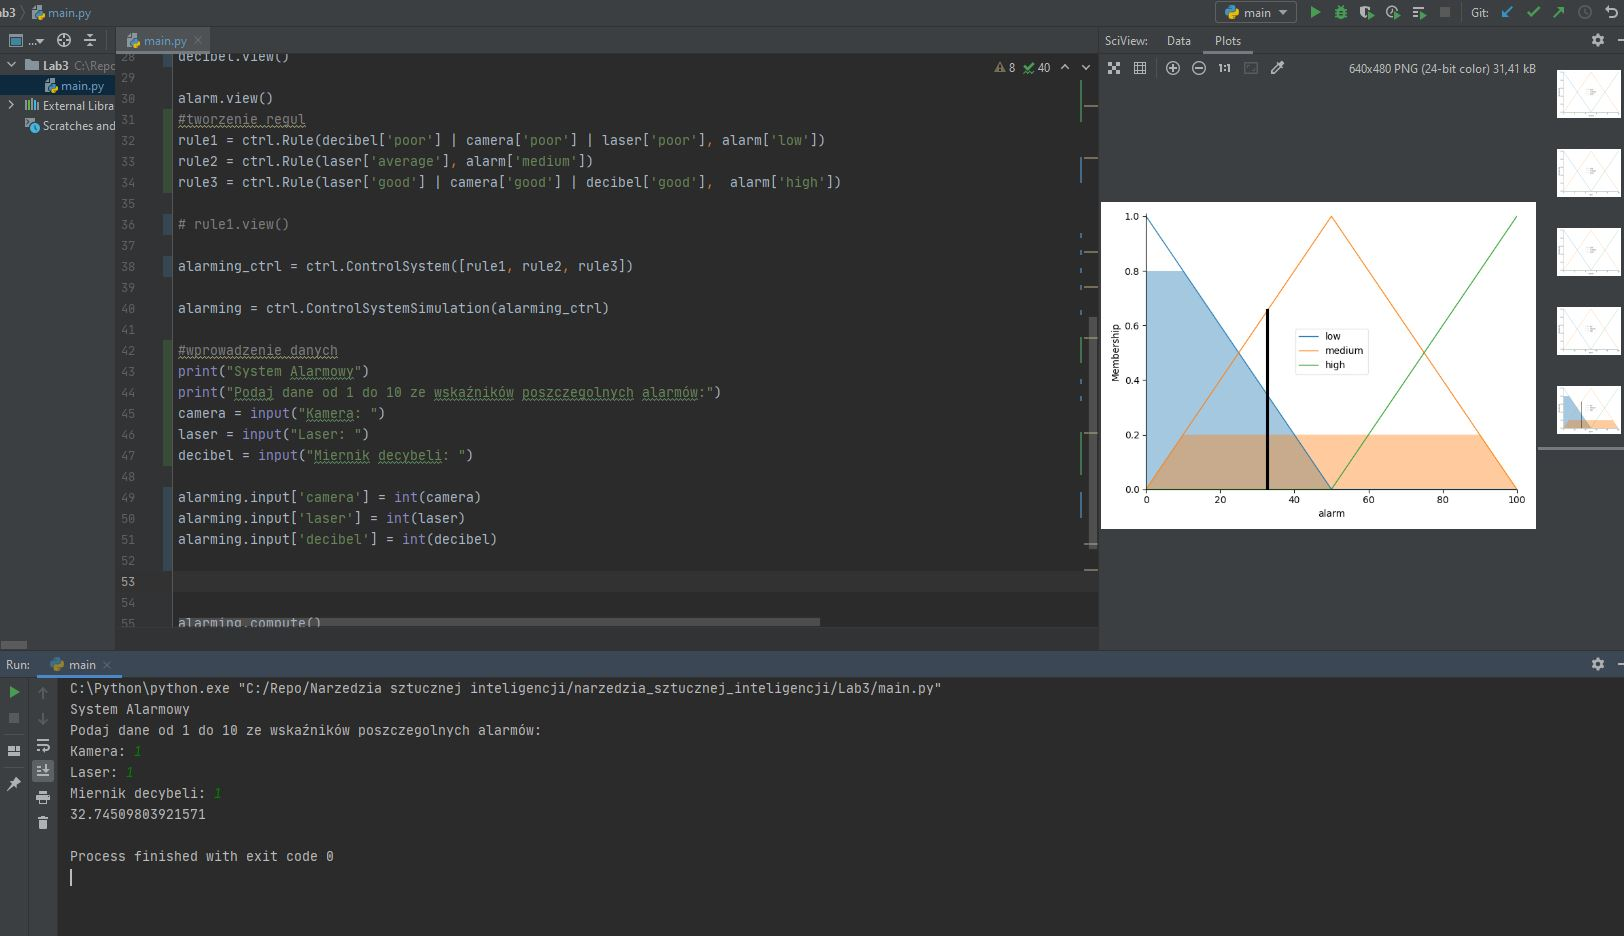
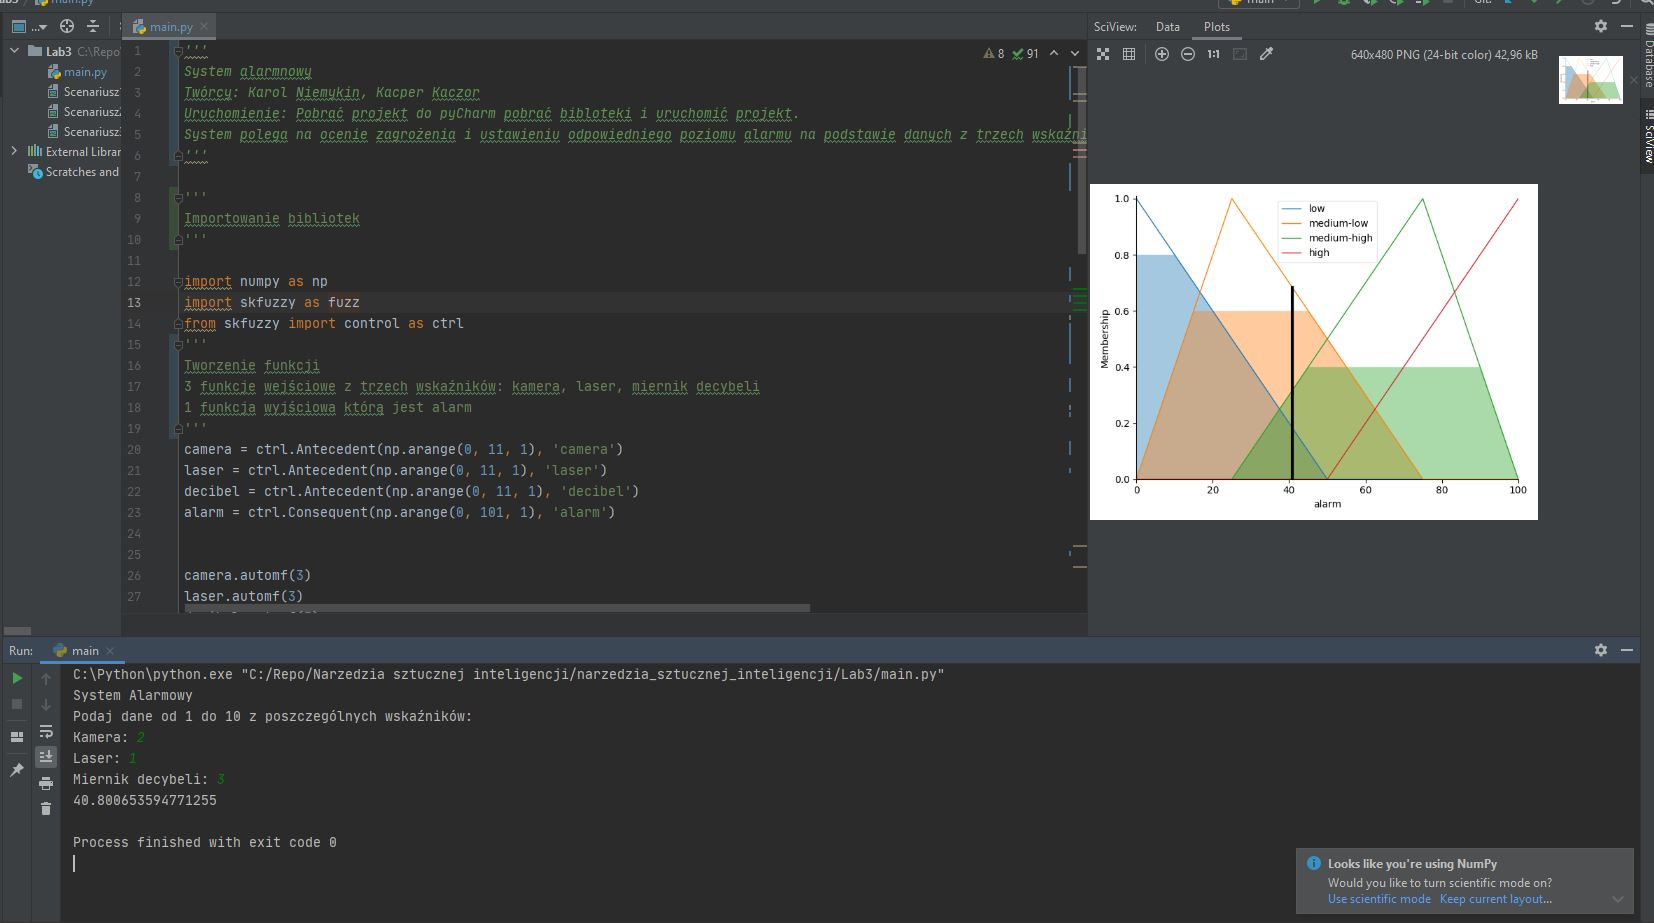
Wersja v2

diff --git a/Lab3/main.py b/Lab3/main.py
@@ -1,13 +1,22 @@
-# System alarmnowy
-# Twórcy: Karol Niemykin, Kacper Kaczor
-# Uruchomienie: Pobrać projekt do pyCharm pobrać bibloteki i uruchomić projekt.
-# System polega na ocenie zagrożenia i ustawieniu odpowiedniego poziomu alarmu na podstawie danych z trzech wskaźnikówk: Kamery, Miernika decybeli i lasera.
+'''
+System alarmnowy
+Twórcy: Karol Niemykin, Kacper Kaczor
+Uruchomienie: Pobrać projekt do pyCharm pobrać bibloteki i uruchomić projekt.
+System polega na ocenie zagrożenia i ustawieniu odpowiedniego poziomu alarmu na podstawie danych z trzech wskaźnikówk: Kamery, Miernika decybeli i lasera.
+'''
 
+'''
+Importowanie bibliotek
+'''
 
 import numpy as np
 import skfuzzy as fuzz
 from skfuzzy import control as ctrl
-#Functions
+'''
+Tworzenie funkcji
+3 funkcje wejściowe z trzech wskaźników: kamera, laser, miernik decybeli
+1 funkcja wyjściowa którą jest alarm
+'''
 camera = ctrl.Antecedent(np.arange(0, 11, 1), 'camera')
 laser = ctrl.Antecedent(np.arange(0, 11, 1), 'laser')
 decibel = ctrl.Antecedent(np.arange(0, 11, 1), 'decibel')
@@ -18,30 +27,36 @@ camera.automf(3)
 laser.automf(3)
 decibel.automf(3)
 
-#Stworzenie przedziałów do danej funkcji
+'''
+Stworzenie przedziałów do każdego poziomu alarmu
+'''
 alarm['low'] = fuzz.trimf(alarm.universe, [0, 0, 50])
-alarm['medium'] = fuzz.trimf(alarm.universe, [0, 50, 100])
+alarm['medium-low'] = fuzz.trimf(alarm.universe, [0, 25, 75])
+alarm['medium-high'] = fuzz.trimf(alarm.universe, [25, 75, 100])
 alarm['high'] = fuzz.trimf(alarm.universe, [50, 100, 100])
-#rysowanie wykresów
-camera.view()
-laser.view()
-decibel.view()
 
-alarm.view()
-#tworzenie regul
+'''
+Reguły
+1. Każdy wskaźnik jest niski - poziom alarmu niski
+2. Wskaźniki Kamery i Miernika decybeli średni - poziom alarmu średni-niski
+3. Wskaźnik laseru i camery średni - poziom alarmu średni-wysoki
+4. Wszystkie wskaźniki wysokie - poziom alarmu wysoki 
+'''
 rule1 = ctrl.Rule(decibel['poor'] | camera['poor'] | laser['poor'], alarm['low'])
-rule2 = ctrl.Rule(laser['average'], alarm['medium'])
-rule3 = ctrl.Rule(laser['good'] | camera['good'] | decibel['good'],  alarm['high'])
+rule2 = ctrl.Rule(camera['average'] | decibel['average'], alarm['medium-low'])
+rule3 = ctrl.Rule(laser['average'] | camera['average'], alarm['medium-high'])
+rule4 = ctrl.Rule(laser['good'] | camera['good'] | decibel['good'],  alarm['high'])
 
-# rule1.view()
 
-alarming_ctrl = ctrl.ControlSystem([rule1, rule2, rule3])
+alarming_ctrl = ctrl.ControlSystem([rule1, rule2, rule3, rule4])
 
 alarming = ctrl.ControlSystemSimulation(alarming_ctrl)
 
-#wprowadzenie danych
+'''
+Wprowadzanie danych przez urzytkownika do konsoli
+'''
 print("System Alarmowy")
-print("Podaj dane od 1 do 10 ze wskaźników poszczegolnych alarmów:")
+print("Podaj dane od 1 do 10 z poszczególnych wskaźników:")
 camera = input("Kamera: ")
 laser = input("Laser: ")
 decibel = input("Miernik decybeli: ")
@@ -53,6 +68,6 @@ alarming.input['decibel'] = int(decibel)
 
 
 alarming.compute()
-#wykres koncowy
+'''Wyświetlenie końcowego wykresy z wynikiem'''
 print(alarming.output['alarm'])
 alarm.view(sim=alarming)
